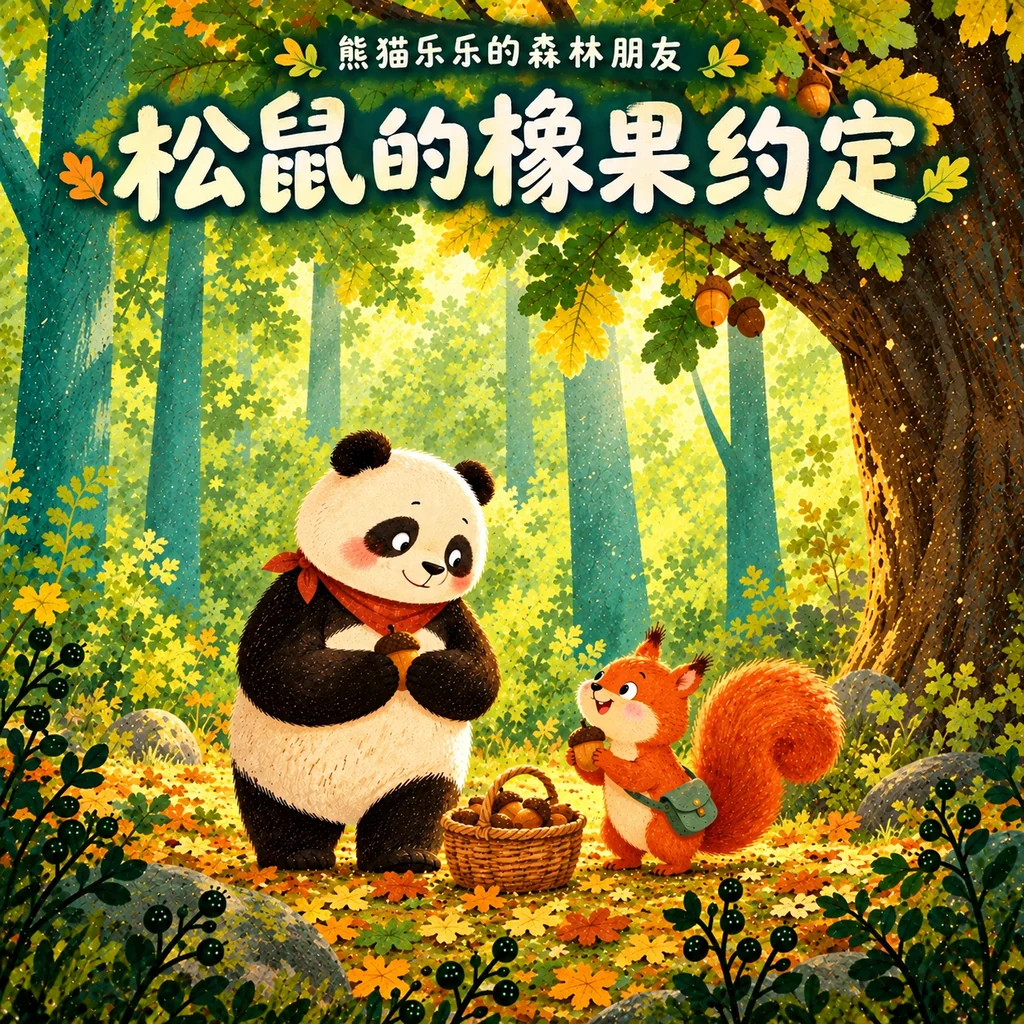
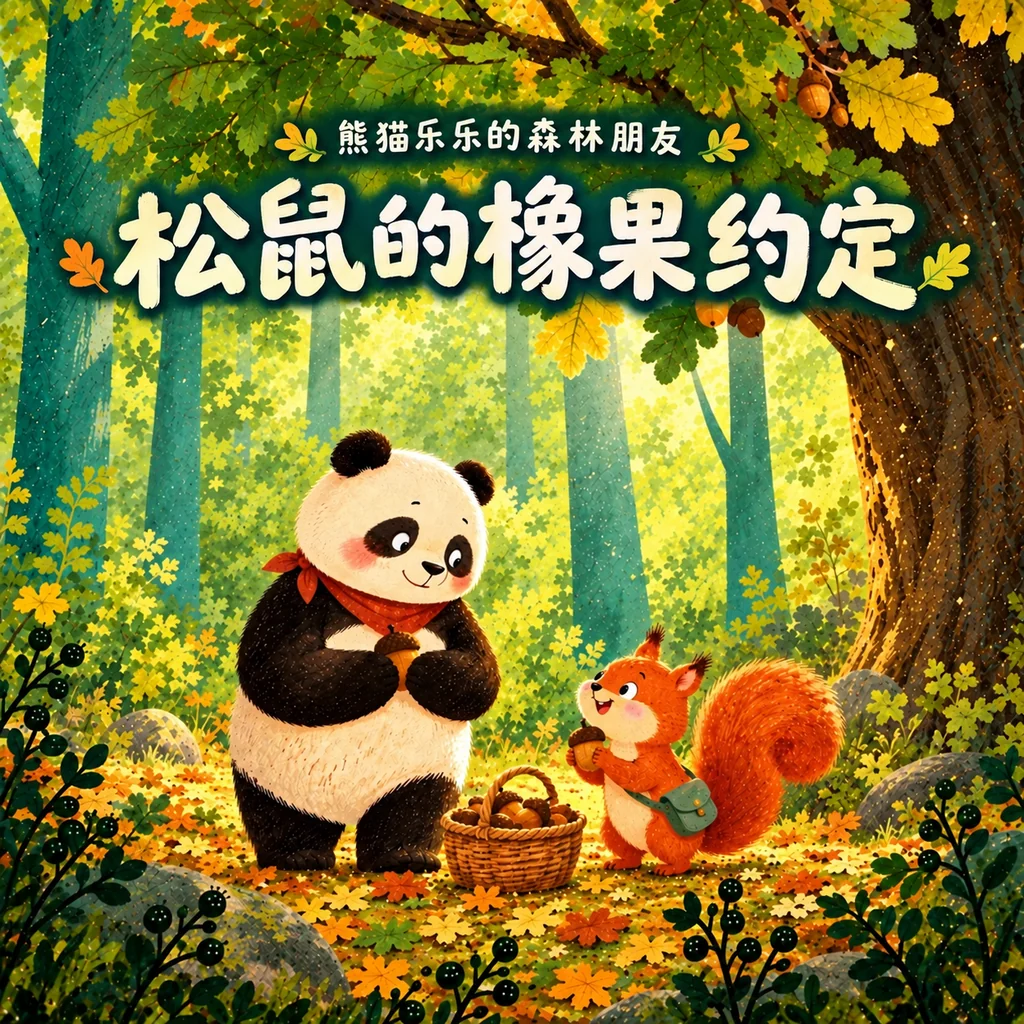
style(storybook): lower cover title blocks

diff --git a/apps/web/src/lib/picture-book-demos.ts b/apps/web/src/lib/picture-book-demos.ts
@@ -60,8 +60,8 @@ const stories: DemoStory[] = [
 
 export const pictureBookDemos = stories.map(({ story, ...book }) => ({
   ...book, id: `demo-${book.slug}`, series: "熊猫乐乐的森林朋友", audience: "4–7岁", style: "森林肌理插画", aspectRatio: "1:1", pageCount: 12,
-  coverPrompt: `${book.coverPrompt}保持统一的书名字体、字号、配色和顶部位置。角色与核心道具整体下移并等比例缩小约15%，最高耳尖从画面高度34%–36%处开始，书名下沿与角色之间留出至少画面高度9%的空间，保留完整身体与连续森林背景。`,
-  coverUrl: `/picture-book-demos/${book.slug}/cover.webp?v=composition-v2`,
+  coverPrompt: `${book.coverPrompt}保持统一的书名字体、字号和配色。系列名起点距顶约8%–10%，主书名位于画面高度14%–29%区域。角色与核心道具整体放在画面下半部，适度等比例缩小，书名下沿与角色之间留出充足的森林空间，保留完整身体与连续森林背景。`,
+  coverUrl: `/picture-book-demos/${book.slug}/cover.webp?v=title-position-v3`,
   pages: story.map(([caption, imagePrompt], index) => ({
     position: index + 1, caption, narration: caption, imagePrompt,
     imageUrl: `/picture-book-demos/${book.slug}/${String(index + 1).padStart(2, "0")}.webp`, audioUrl: null

diff --git a/docs/picture-book-demo-assets.md b/docs/picture-book-demo-assets.md
@@ -36,8 +36,8 @@ Preserve the reference characters' appearances, proportions and clothing; draw a
 
 ## 带标题的封面
 
-使用内置 imagegen 编辑原封面，保留角色、服饰、表情、森林和肌理。封面顶部的小字统一为“熊猫乐乐的森林朋友”，其下以大号、圆润手绘字体分别写“等等我，小兔”“小刺猬的拥抱”“松鼠的橡果约定”。书名为暖米白色，配深青色细描边或轻阴影；文字位于树冠区，不遮挡角色头部。左右留出 6% 安全边距，顶部留出 4% 安全边距。不添加作者名、出版社、其他标语或水印。
+使用内置 imagegen 编辑原封面，保留角色、服饰、表情、森林和肌理。封面顶部的小字统一为“熊猫乐乐的森林朋友”，其下以大号、圆润手绘字体分别写“等等我，小兔”“小刺猬的拥抱”“松鼠的橡果约定”。书名为暖米白色，配深青色细描边或轻阴影；文字位于树冠区，不遮挡角色头部。左右留出 6% 安全边距。不添加作者名、出版社、其他标语或水印。
 
-标题区沿用统一的字体、字号、配色和位置。角色与核心道具整体下移，等比例缩小约 15%；最高耳尖从画面高度 34%–36% 处开始，与书名下沿保持至少画面高度 9% 的间距。上方保留疏朗的树冠和青绿色树干，正文主画面位于下方三分之二区域；保留角色完整身体和连续森林背景，不使用横向分隔或纯色标题条。
+标题区沿用统一的字体、字号、配色和行距，整个文字组下移约画面高度 6%；系列名起点距顶约 8%–10%，主书名位于画面高度 14%–29% 区域。角色与核心道具保持当前位于下半部的构图，不继续移动或缩放。文字与角色头部之间保留疏朗的森林空间，角色身体完整，背景连续，不使用横向分隔或纯色标题条。
 
-前台封面路径附加 `?v=composition-v2` 刷新图片缓存。阅读顺序为“封面、1–12页正文”，导航和计数分别展示，正文页数仍为 12。
+前台封面路径附加 `?v=title-position-v3` 刷新图片缓存。阅读顺序为“封面、1–12页正文”，导航和计数分别展示，正文页数仍为 12。
